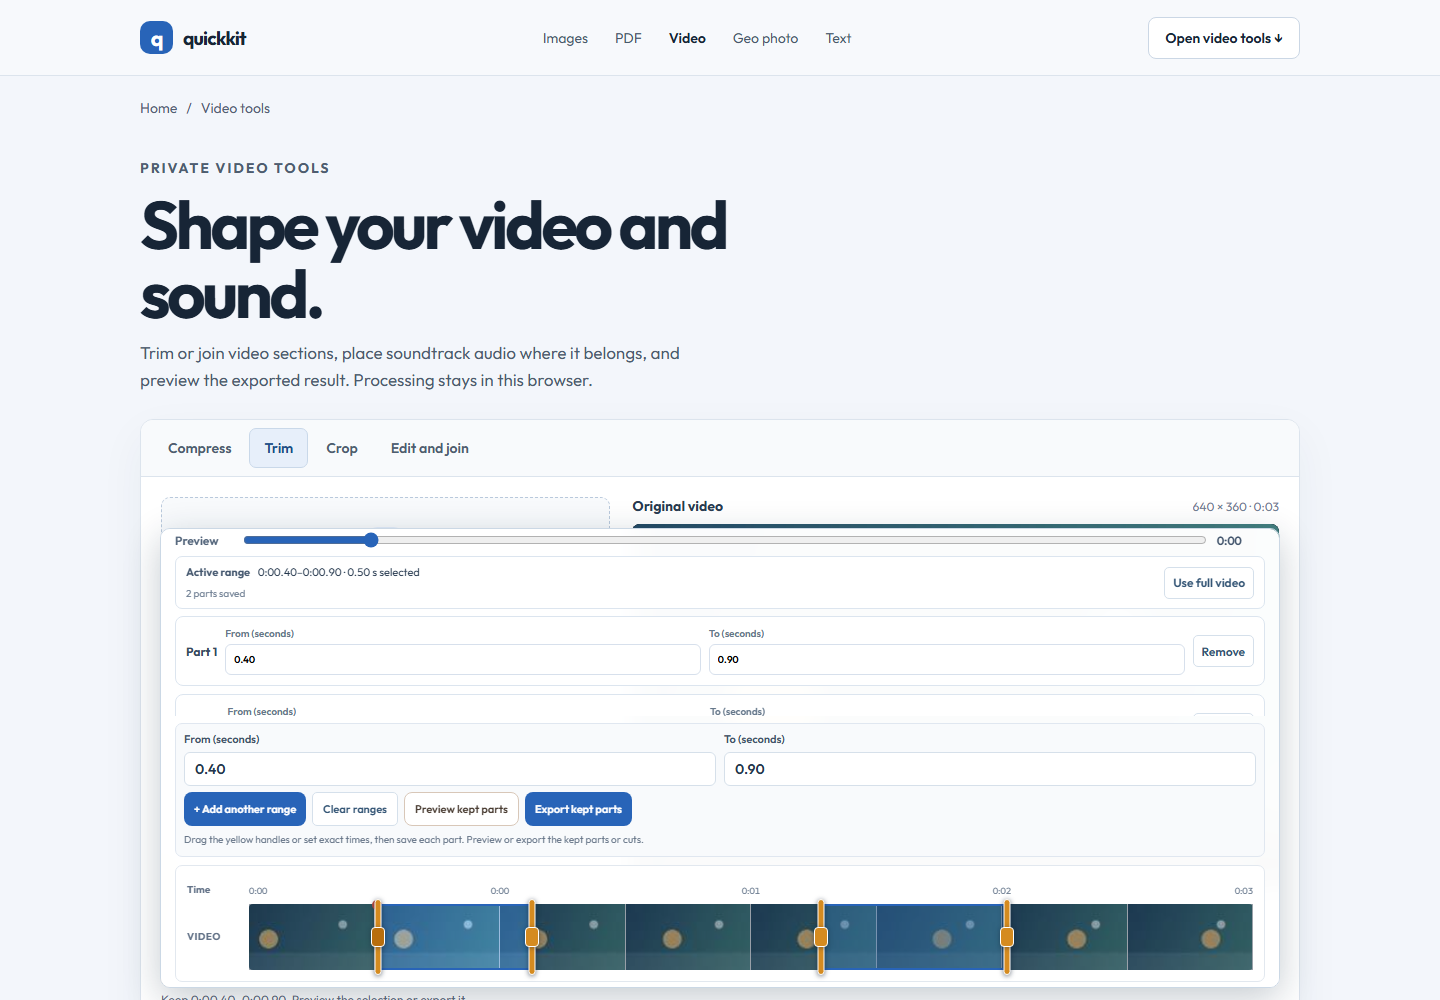
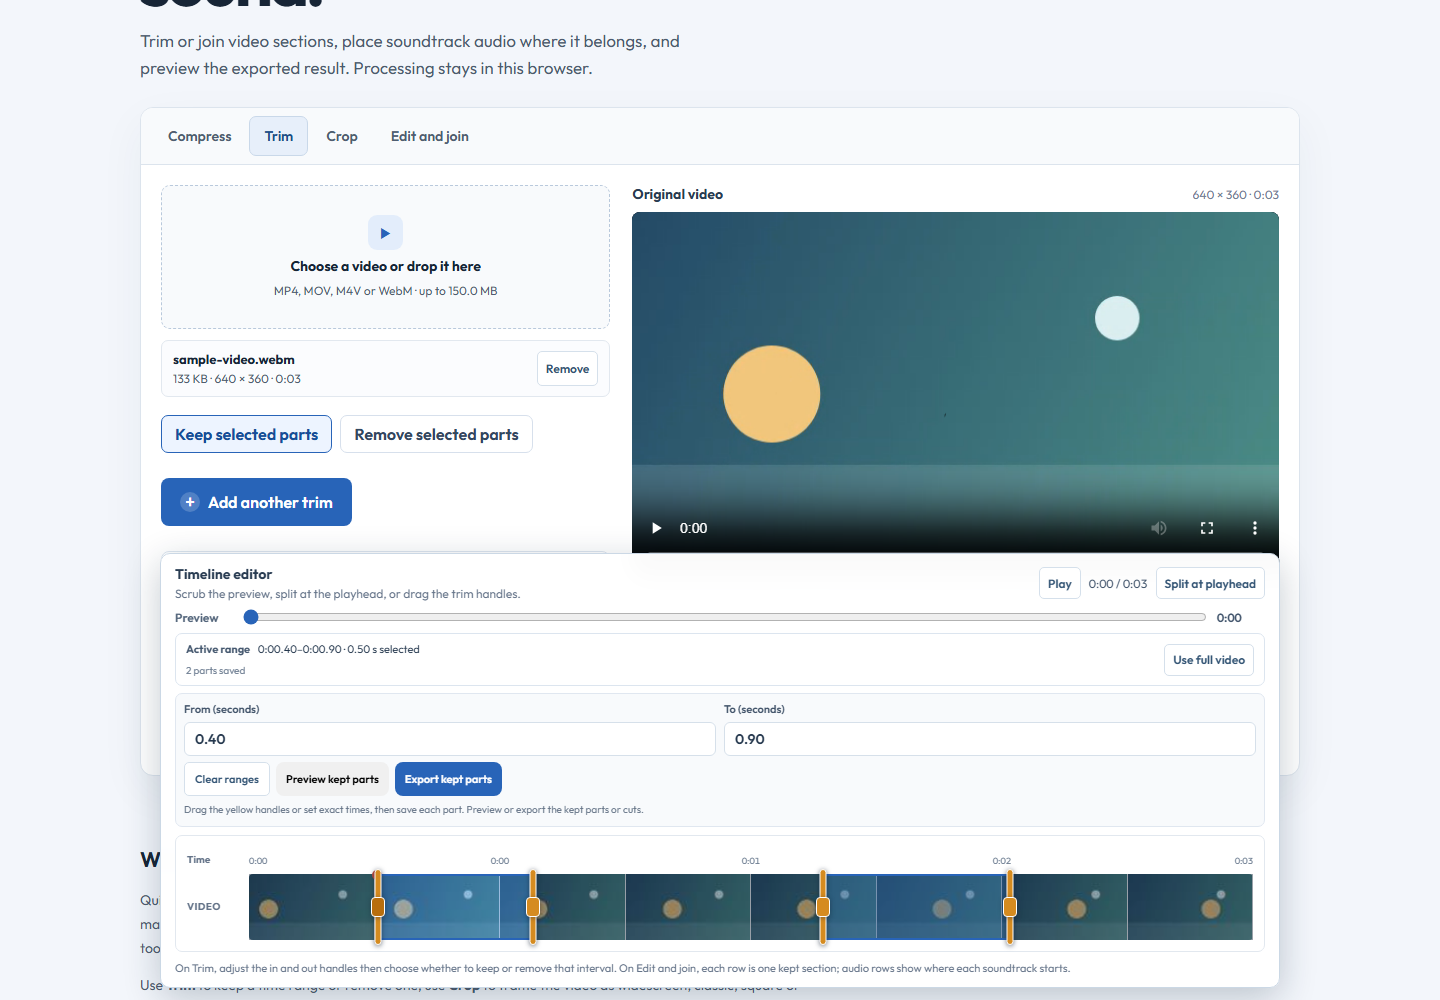
Simplify multi-range video trim controls

diff --git a/products/quickkit/video-tools.css b/products/quickkit/video-tools.css
@@ -1,7 +1,7 @@
 .video-page{padding-bottom:54px}.video-intro{max-width:850px}.video-intro h1{max-width:12ch}.video-workbench{overflow:hidden;border:1px solid var(--line);border-radius:13px;background:#fff;box-shadow:0 16px 46px #2238540d}.video-tabs{display:flex;gap:3px;padding:8px 12px;border-bottom:1px solid var(--line);background:#f8fafc}.video-tabs button{min-height:40px;padding:8px 14px;border:1px solid transparent;border-radius:7px;background:transparent;color:#4e5d70;font-size:14px;font-weight:600;cursor:pointer}.video-tabs button:hover{background:#eef3f8}.video-tabs button[aria-selected=true]{border-color:#c9d8e9;background:#e7effa;color:#1e4d88}.video-layout{display:grid;grid-template-columns:minmax(300px,.82fr) minmax(0,1.18fr);gap:22px;padding:20px}.video-settings{min-width:0}.video-dropzone{min-height:144px;display:flex;flex-direction:column;align-items:center;justify-content:center;gap:7px;padding:18px;border:1.5px dashed #b9c9dc;border-radius:9px;background:#f8fafc;text-align:center;cursor:pointer}.video-dropzone:hover,.video-dropzone.is-dragging{border-color:var(--blue);background:#f2f6fc}.video-dropzone input{position:absolute;width:1px;height:1px;opacity:0}.video-drop-icon{width:35px;height:35px;display:grid;place-items:center;border-radius:9px;background:#e3edfb;color:var(--blue);font-size:13px}.video-dropzone strong{font-size:14px}.video-dropzone>span:last-of-type{color:var(--muted);font-size:12px;line-height:1.5}.video-file-summary{display:grid;grid-template-columns:minmax(0,1fr) auto;gap:4px 10px;margin-top:11px;padding:10px 11px;border:1px solid #e2e8ef;border-radius:7px;background:#fbfcfe}.video-file-summary[hidden]{display:none}.video-file-summary strong{overflow:hidden;text-overflow:ellipsis;white-space:nowrap;font-size:13px}.video-file-summary span{grid-column:1;color:var(--muted);font-size:12px}.video-file-summary .video-text-button{grid-column:2;grid-row:1/3}.video-mode-panel{display:grid;gap:13px;padding-top:18px}.video-mode-panel[hidden]{display:none}.video-field{display:grid;gap:6px;color:#42546a;font-size:13px;font-weight:600}.video-field select,.video-field input[type=number]{width:100%;height:40px;padding:0 10px;border:1px solid #d6e0ea;border-radius:6px;background:#fff;color:#24374d;font-size:14px}.video-field input[type=range]{width:100%;accent-color:var(--blue)}.video-time-fields{display:grid;grid-template-columns:1fr 1fr;gap:10px}.video-scrub-label{grid-template-columns:1fr auto;align-items:center}.video-scrub-label input{grid-column:1/-1}.video-scrub-label output,.video-progress-heading output{font-variant-numeric:tabular-nums;color:#526174}.video-help{margin:0;color:#647386;font-size:12px;line-height:1.55}.video-run{width:100%;margin-top:1px}.video-run:disabled{opacity:.5;cursor:not-allowed}.video-list-heading{display:flex;align-items:center;justify-content:space-between;gap:10px}.video-list-heading>div{display:grid;gap:3px}.video-list-heading strong{color:#293c52;font-size:14px}.video-list-heading span{color:#657489;font-size:12px}.video-text-button{min-height:32px;padding:5px 8px;border:1px solid #d5e0eb;border-radius:5px;background:#fff;color:#345575;font-size:12px;font-weight:600;cursor:pointer}.video-text-button:hover{background:#f2f6fb;border-color:#b6c9dc}.video-text-button:disabled{opacity:.5;cursor:not-allowed}.video-segments{display:grid;gap:8px;max-height:285px;overflow:auto;margin:0;padding:0;list-style:none}.video-segment{display:grid;grid-template-columns:minmax(0,1fr) auto;gap:7px 8px;padding:9px;border:1px solid #e1e8ef;border-radius:7px;background:#fbfcfe}.video-segment.is-dragging{opacity:.5}.video-segment-header{grid-column:1/-1;display:flex;align-items:center;gap:7px;min-width:0}.video-segment-index{width:23px;height:23px;display:grid;place-items:center;flex:none;border-radius:5px;background:#e5eefb;color:#315f9a;font-size:11px;font-weight:700}.video-segment-name{min-width:0;overflow:hidden;text-overflow:ellipsis;white-space:nowrap;color:#32465d;font-size:12px;font-weight:600}.video-segment-actions{display:flex;gap:3px;margin-left:auto}.video-segment-actions button{width:26px;height:25px;border:1px solid #dce4ed;border-radius:4px;background:#fff;color:#516275;font-size:12px;cursor:pointer}.video-segment-actions button:disabled{opacity:.4;cursor:not-allowed}.video-segment label{display:grid;gap:4px;color:#637388;font-size:11px;font-weight:600}.video-segment input{width:100%;height:31px;padding:0 7px;border:1px solid #d6e0ea;border-radius:5px;background:#fff;color:#24374d;font-size:12px}.video-progress{display:grid;gap:7px;margin-top:17px;padding:11px;border:1px solid #dce5ef;border-radius:7px;background:#f8fafc}.video-progress[hidden]{display:none}.video-progress-heading{display:flex;align-items:center;justify-content:space-between;gap:8px;font-size:12px;color:#3c4f65}.video-progress progress{width:100%;height:9px;accent-color:var(--blue)}.video-progress .video-text-button{justify-self:start}.video-status{min-height:18px;margin:11px 0 0;color:#5c6b7d;font-size:12px;line-height:1.5}.video-status.is-error{color:#a14432}.video-private-note{margin:8px 0 0;color:#5b6b7e;font-size:12px}.video-private-note span{color:#3c8050}.video-preview-panel{min-width:0}.video-preview-heading{display:flex;align-items:baseline;justify-content:space-between;gap:10px;margin:0 0 9px}.video-preview-heading strong{color:#293c52;font-size:14px}.video-preview-heading span{overflow:hidden;text-overflow:ellipsis;white-space:nowrap;color:#718094;font-size:12px}.video-frame{min-height:280px;display:grid;place-items:center;overflow:hidden;border-radius:8px;background:#192534}.video-frame video{display:block;width:100%;max-height:480px;background:#0d1520}.video-frame video[hidden]{display:none}.video-empty{display:grid;justify-items:center;gap:8px;padding:24px;color:#d7e0ea;text-align:center}.video-empty>span{width:38px;height:38px;display:grid;place-items:center;border:1px solid #596b80;border-radius:10px;font-size:13px}.video-empty strong{font-size:14px}.video-empty small{max-width:250px;color:#acbac9;font-size:12px;line-height:1.5}.video-empty[hidden]{display:none}.video-result{display:flex;align-items:center;justify-content:space-between;gap:15px;margin-top:12px;padding:11px;border:1px solid #cddfce;border-radius:7px;background:#f2f8f1}.video-result[hidden]{display:none}.video-result>div{display:grid;gap:4px}.video-result strong{color:#345c3e;font-size:13px}.video-result span{color:#536b59;font-size:12px}.video-result .button{min-height:38px;padding:8px 12px;font-size:12px;white-space:nowrap}.video-support-note{margin:10px 0 0;color:#66768a;font-size:12px;line-height:1.55}.video-explainer{padding-top:30px}.video-explainer p{max-width:72ch}@media(max-width:850px){.video-layout{grid-template-columns:1fr}.video-preview-panel{order:-1}.video-frame{min-height:240px}.video-frame video{max-height:420px}}@media(max-width:560px){.video-page{padding-bottom:40px}.video-intro{padding-top:28px}.video-intro h1{font-size:clamp(2.5rem,10vw,3.5rem)}.video-workbench{border-radius:9px}.video-tabs{padding:6px;gap:2px}.video-tabs button{flex:1;min-width:0;padding:7px 5px;font-size:12px}.video-layout{gap:14px;padding:11px}.video-preview-heading{align-items:flex-start;flex-direction:column;gap:3px}.video-frame{min-height:210px}.video-frame video{max-height:360px}.video-result{align-items:flex-start;flex-direction:column}.video-result .button{width:100%}.video-list-heading{align-items:flex-start}.video-segments{max-height:245px}.video-time-fields{gap:7px}}
 
 .video-timeline{display:grid;gap:8px;margin:5px 0;padding:10px;border:1px solid #e2e8ef;border-radius:7px;background:#fbfcfe}.video-timeline[hidden]{display:none}.timeline-lane{display:grid;grid-template-columns:54px minmax(0,1fr);align-items:center;gap:8px}.timeline-lane>span{color:#657489;font-size:10px;font-weight:700;text-transform:uppercase;letter-spacing:.04em}.timeline-rail{position:relative;min-height:22px;overflow:hidden;border-radius:4px;background:repeating-linear-gradient(90deg,#f1f4f8 0,#f1f4f8 calc(10% - 1px),#dce4ed calc(10% - 1px),#dce4ed 10%)}.timeline-block{position:absolute;top:2px;bottom:2px;min-width:2px;overflow:hidden;padding:2px 4px;border-radius:3px;background:#3768a9;color:#fff;font-size:9px;line-height:14px;text-overflow:ellipsis;white-space:nowrap}.timeline-block.audio{background:#5b8c68}.soundtrack-editor{display:grid;gap:10px;margin-top:12px;padding:12px;border:1px solid #dfe7ee;border-radius:8px;background:#f8fafc}.soundtrack-editor>.video-list-heading{margin-bottom:1px}.soundtrack-dropzone{min-height:72px;display:flex;flex-direction:column;align-items:center;justify-content:center;gap:4px;padding:10px;border:1px dashed #afc1d5;border-radius:7px;background:#fff;text-align:center;cursor:pointer}.soundtrack-dropzone:hover,.soundtrack-dropzone.is-dragging{border-color:var(--blue);background:#f2f6fc}.soundtrack-dropzone strong{color:#354a61;font-size:12px}.soundtrack-dropzone span{color:#657489;font-size:10px}.soundtrack-dropzone input{position:absolute;width:1px;height:1px;opacity:0}.soundtrack-original{margin:0;padding:8px;border:1px solid #e1e8ef;border-radius:6px;background:#fff}.soundtrack-original-volume{grid-template-columns:1fr auto;align-items:center}.soundtrack-original-volume input{grid-column:1/-1}.soundtrack-original-volume output{font-size:12px;color:#526174;font-variant-numeric:tabular-nums}.soundtrack-list{display:grid;gap:8px;margin:0;padding:0;list-style:none}.soundtrack-track{display:grid;grid-template-columns:1fr 1fr;gap:8px;padding:9px;border:1px solid #dce5ee;border-radius:7px;background:#fff}.soundtrack-track-header{grid-column:1/-1;display:flex;align-items:center;gap:8px;min-width:0}.soundtrack-track-header strong{min-width:0;overflow:hidden;text-overflow:ellipsis;white-space:nowrap;color:#32465d;font-size:12px}.soundtrack-track-header button{margin-left:auto;flex:none}.soundtrack-track label{display:grid;gap:4px;color:#637388;font-size:10px;font-weight:600}.soundtrack-track input[type=number]{width:100%;height:30px;padding:0 7px;border:1px solid #d6e0ea;border-radius:5px;background:#fff;color:#24374d;font-size:12px}.soundtrack-track .soundtrack-volume{grid-column:1/-1;grid-template-columns:1fr auto;align-items:center}.soundtrack-track .soundtrack-volume input{grid-column:1/-1;width:100%;accent-color:var(--blue)}.soundtrack-track .soundtrack-volume output{font-size:11px;color:#526174;font-variant-numeric:tabular-nums}.soundtrack-empty{margin:0;padding:8px;border:1px dashed #d7e0e9;border-radius:6px;color:#718094;font-size:11px;text-align:center}.soundtrack-error{margin:0;color:#a14432;font-size:11px}.video-settings .soundtrack-editor input:focus-visible,.video-settings .video-timeline:focus-visible{outline:3px solid #e68a4b;outline-offset:2px}
-.video-cut-box{display:grid;gap:7px;padding:11px;border-left:3px solid #d08a55;border-radius:5px;background:#fbf6f1}.video-cut-box>strong{color:#493c32;font-size:13px}.video-cut-box .video-run{margin-top:2px}.video-run.button-secondary{border:1px solid #d8c7b8;background:#fff;color:#493c32}.video-run.button-secondary:hover{background:#f5ebe1}.video-crop-controls{display:grid;gap:12px}.video-crop-controls output{justify-self:end;color:#526174;font-variant-numeric:tabular-nums}.video-frame{transition:aspect-ratio .2s ease}.video-frame video{transition:object-position .18s ease,object-fit .18s ease}
+.video-crop-controls{display:grid;gap:12px}.video-crop-controls output{justify-self:end;color:#526174;font-variant-numeric:tabular-nums}.video-frame{transition:aspect-ratio .2s ease}.video-frame video{transition:object-position .18s ease,object-fit .18s ease}
 @media(max-width:560px){.soundtrack-editor{padding:9px}.soundtrack-track{gap:7px;padding:8px}.timeline-lane{grid-template-columns:44px minmax(0,1fr);gap:5px}.timeline-block{font-size:8px;padding-inline:2px}}
 .video-editor-dock{display:grid;gap:13px;margin:0 20px 20px;padding:15px;border:1px solid #dce5ef;border-radius:9px;background:#f8fafc}.video-editor-dock[hidden]{display:none}.video-editor-dock-heading{display:flex;align-items:center;justify-content:space-between;gap:16px}.video-editor-dock-heading>div:first-child{display:grid;gap:3px}.video-editor-dock-heading strong{color:#293c52;font-size:14px}.video-editor-dock-heading span{color:#657489;font-size:12px}.video-transport{display:flex;align-items:center;gap:8px}.video-transport output,.video-editor-scrub output,.video-trim-ranges output{color:#43566d;font-size:12px;font-variant-numeric:tabular-nums;white-space:nowrap}.video-editor-scrub{display:grid;grid-template-columns:58px minmax(0,1fr) 48px;align-items:center;gap:10px;color:#52647a;font-size:12px;font-weight:600}.video-editor-scrub input,.video-trim-ranges input{width:100%;margin:0;accent-color:#2864b8}.video-trim-ranges{display:grid;grid-template-columns:1fr 1fr;gap:18px;padding:12px;border:1px solid #dce5ef;border-radius:7px;background:#fff}.video-trim-ranges[hidden]{display:none}.video-trim-ranges label{display:grid;grid-template-columns:1fr auto;align-items:center;gap:6px;color:#45586f;font-size:12px;font-weight:600}.video-trim-ranges input{grid-column:1/-1}.video-editor-dock .video-timeline{margin:0;padding:11px;background:#fff}.video-editor-dock .timeline-lane{grid-template-columns:64px minmax(0,1fr)}.video-editor-dock .timeline-rail{min-height:34px;background:repeating-linear-gradient(90deg,#eef2f6 0,#eef2f6 calc(5% - 1px),#dbe3ec calc(5% - 1px),#dbe3ec 5%)}.video-editor-dock .timeline-block{top:3px;bottom:3px;display:flex;align-items:center;padding:0 8px;background:linear-gradient(120deg,#315f9e,#4f7eb8);font-size:10px}.video-editor-dock .timeline-block.audio{background:linear-gradient(120deg,#50795a,#6b9a72)}.timeline-playhead{position:absolute;z-index:2;top:0;bottom:0;left:0;width:2px;background:#c44c3c;pointer-events:none;box-shadow:0 0 0 1px #fff8}.timeline-playhead:before{position:absolute;top:-4px;left:-4px;width:10px;height:10px;border-radius:50%;background:#c44c3c;content:""}.timeline-trim-selection{position:absolute;z-index:1;top:0;bottom:0;background:#ffec8590;border-left:2px solid #c48a2a;border-right:2px solid #c48a2a;pointer-events:none}.video-timeline-note{margin:0;color:#657489;font-size:11px;line-height:1.5}
 @media(max-width:850px){.video-editor-dock{margin:0 11px 14px;padding:11px}}
@@ -42,6 +42,9 @@
 .video-trim-action{display:flex;flex-wrap:wrap;gap:8px;margin-bottom:12px}
 .video-trim-action button{min-height:38px;padding:8px 13px;border:1px solid #d7e0ec;border-radius:7px;background:#fff;color:#33475f;font-weight:650;cursor:pointer}
 .video-trim-action button[aria-pressed=true]{border-color:#2864b8;background:#edf4ff;color:#174d98}
+.video-trim-add-row{display:flex;align-items:center;margin:0 0 12px}
+.video-trim-add-button{min-height:40px;padding:9px 14px}
+.video-trim-add-button>span{display:inline-grid;width:20px;height:20px;place-items:center;margin-right:5px;border-radius:50%;background:#ffffff30;font-size:18px;line-height:1}
 .video-trim-section-actions{display:flex;flex-wrap:wrap;gap:12px;align-items:center;margin:8px 0}
 .video-trim-segments{display:grid;gap:8px;margin:10px 0;padding:0;list-style:none}
 .video-trim-range-row{display:grid;grid-template-columns:auto minmax(90px,1fr) minmax(90px,1fr) auto;align-items:center;gap:8px;padding:10px;border:1px solid #dce5ef;border-radius:8px;background:#fff}

diff --git a/products/quickkit/video-tools.js b/products/quickkit/video-tools.js
@@ -124,7 +124,6 @@ function updateActions() {
   const hasVideo = selected.length > 0;
   $('#video-run-compress').disabled = !hasVideo || busy();
   $('#video-run-trim').disabled = !hasVideo || busy();
-  $('#video-run-remove-range').disabled = !hasVideo || busy();
   $('#video-add-trim-range').disabled = !hasVideo || busy();
   $('#video-clear-trim-ranges').disabled = !trimRanges.length || busy();
   $('#video-preview-trim-ranges').disabled = !trimRanges.length || busy();
@@ -370,7 +369,7 @@ function renderTrimRanges() {
     row.append(title, startLabel, endLabel, remove); list.append(row);
   });
   const add = $('#video-add-trim-range');
-  if (add) add.innerHTML = `<span aria-hidden="true">+</span> ${trimDraftActive ? (trimRanges.length ? 'Save this part' : 'Save first part') : 'Add another range'}`;
+  if (add) add.innerHTML = `<span aria-hidden="true">+</span> ${trimDraftActive ? (trimRanges.length ? 'Save this trim' : 'Save first trim') : 'Add another trim'}`;
   const savedCount = $('#video-trim-saved-count');
   if (savedCount) savedCount.textContent = trimRanges.length ? `${trimRanges.length} ${trimRanges.length === 1 ? 'part' : 'parts'} saved` : 'No parts saved yet';
   const previewButton = $('#video-preview-trim-ranges');
@@ -1008,26 +1007,6 @@ function handleCropPointerUp(event) {
   if (event.currentTarget.hasPointerCapture?.(event.pointerId)) event.currentTarget.releasePointerCapture(event.pointerId);
 }
 
-function removeSelectedRange() {
-  const item = selected[0];
-  if (!item) return;
-  const start = Number($('#video-trim-start').value);
-  const end = Number($('#video-trim-end').value);
-  if (!Number.isFinite(start) || !Number.isFinite(end) || start < 0 || end > item.duration || end - start < 0.15) {
-    setStatus('Enter a section of at least 0.15 seconds to remove, inside the video duration.', true); return;
-  }
-  const kept = [];
-  if (start >= 0.15) kept.push({ id: `segment-${++segmentCounter}`, itemId: item.id, start: 0, end: start });
-  if (item.duration - end >= 0.15) kept.push({ id: `segment-${++segmentCounter}`, itemId: item.id, start: end, end: item.duration });
-  if (!kept.length) { setStatus('That range covers the whole video. Leave at least 0.15 seconds to keep.', true); return; }
-  segments = kept;
-  queuedJoinTask = 'cut';
-  updateMode('join');
-  renderSegments();
-  setStatus(`Ready to remove ${formatDuration(start)}–${formatDuration(end)}. Check the kept sections, then export.`);
-  $('#video-run-join').focus();
-}
-
 async function runConversion(task) {
   const item = selected[0];
   if (!item) return;
@@ -1239,7 +1218,6 @@ fileInput.addEventListener('change', (event) => {
 $('#video-clear').addEventListener('click', clearFiles);
 $('#video-run-compress').addEventListener('click', () => runConversion('compress'));
 $('#video-run-trim').addEventListener('click', () => runConversion('trim'));
-$('#video-run-remove-range').addEventListener('click', removeSelectedRange);
 $('#video-run-crop').addEventListener('click', () => runConversion('crop'));
 $('#video-run-join').addEventListener('click', () => runJoin());
 $('#video-playback-toggle').addEventListener('click', async () => {
@@ -1292,8 +1270,8 @@ for (const [id, intent] of [['video-trim-keep', 'keep'], ['video-trim-remove', '
     $('#video-trim-keep').setAttribute('aria-pressed', String(intent === 'keep'));
     $('#video-trim-remove').setAttribute('aria-pressed', String(intent === 'remove'));
     $('#video-trim-intent-help').textContent = intent === 'keep'
-      ? 'Saved ranges are joined in order. Switch to “Remove selected parts” to cut those ranges from the original video.'
-      : 'Saved ranges will be cut out. The remaining parts before, between and after them are joined in order.';
+      ? 'Saved parts are joined in order.'
+      : 'Saved parts are cut out; the remaining video is joined.';
     renderTrimRanges();
     setStatus(intent === 'keep' ? 'Saved ranges are the parts that will remain in the export.' : 'Saved ranges are the parts that will be cut out of the export.');
   });

diff --git a/products/quickkit/video-tools.html b/products/quickkit/video-tools.html
@@ -84,12 +84,11 @@
               <button type="button" id="video-trim-keep" aria-pressed="true">Keep selected parts</button>
               <button type="button" id="video-trim-remove" aria-pressed="false">Remove selected parts</button>
             </div>
-              <p class="video-help" id="video-trim-intent-help">Saved ranges are joined in order. Switch to “Remove selected parts” to cut those ranges from the original video.</p>
-            <div class="video-cut-box">
-              <strong>Remove one section</strong>
-              <p class="video-help">For several cuts, choose Remove selected parts, save each unwanted range, then preview the remaining video.</p>
-              <button type="button" class="button button-secondary video-run" id="video-run-remove-range" disabled>Remove this range</button>
+            <div class="video-trim-add-row">
+              <button type="button" class="button button-primary video-trim-add-button" id="video-add-trim-range" disabled><span aria-hidden="true">+</span> Save first trim</button>
             </div>
+            <ol class="video-trim-segments" id="video-trim-segments" aria-label="Selected video ranges" hidden></ol>
+            <p class="video-help" id="video-trim-intent-help">Save each part with +. Choose Keep selected parts to join saved ranges, or Remove selected parts to cut them out.</p>
           </div>
 
           <div class="video-mode-panel" id="video-panel-crop" role="tabpanel" aria-labelledby="video-tab-crop" hidden>
@@ -174,14 +173,12 @@
               <div><strong>Active range</strong><output id="video-trim-range-summary">0:00–0:00 · 0:00 selected</output><span id="video-trim-saved-count">No parts saved</span></div>
               <button type="button" class="video-text-button" id="video-reset-trim" disabled>Use full video</button>
             </div>
-            <ol class="video-trim-segments" id="video-trim-segments" aria-label="Selected video ranges" hidden></ol>
             <div class="video-trim-workspace-controls">
               <div class="video-time-fields">
                 <label class="video-field">From (seconds)<input id="video-trim-start" type="number" min="0" step="0.01" value="0" inputmode="decimal"></label>
                 <label class="video-field">To (seconds)<input id="video-trim-end" type="number" min="0" step="0.01" value="0" inputmode="decimal"></label>
               </div>
               <div class="video-trim-section-actions">
-                <button type="button" class="button button-primary" id="video-add-trim-range" disabled><span aria-hidden="true">+</span> Save first part</button>
                 <button type="button" class="video-text-button" id="video-clear-trim-ranges" disabled>Clear ranges</button>
                 <button type="button" class="button button-secondary video-run" id="video-preview-trim-ranges" disabled hidden>Preview selected parts</button>
                 <button type="button" class="button button-primary video-run" id="video-run-trim" disabled>Export trimmed clip</button>

diff --git a/VIDEO_TOOLS_PLAN.md b/VIDEO_TOOLS_PLAN.md
@@ -79,7 +79,8 @@ The current interface is `products/quickkit/video-tools.html`. It keeps source f
 - [x] Preview and download the assembled output using the existing local join/export engine; validate playable output duration for both keep and remove behavior.
 - [x] Reject overlapping selections with an understandable message; keep exact time fields and timeline selections in sync.
 - [x] Check the saved-range controls at 390px with no horizontal page overflow.
-- [x] Put saved ranges, exact time fields, the “+ Save/Add another part” action, preview and export together in the visible Trim dock so the fixed timeline no longer hides them.
+- [x] Put the visible “+ Save/Add another trim” action beside Keep/Remove in the Trim panel. Keep exact time fields, saved parts, clear, preview and export together in the timeline dock.
+- [x] Remove the separate one-off cut control so keeping or removing saved ranges stays in one simple flow.
 - [x] Keep the timeline dock out of Compress and Crop; show it only for Trim and Edit and join.
 - [x] Add a crop box drawn over the actual video frame, movable within the frame and resizable from four corners; implement zoom from 50% to 300% and keep preview coordinates stable while selecting.
 - [x] Verify the free-crop export uses the selected frame region and exact output dimensions, not a visual-only overlay.

diff --git a/BROWSER_QA_CHECKLIST.md b/BROWSER_QA_CHECKLIST.md
@@ -255,7 +255,8 @@ Owner-supplied files were exercised in a local production build so their content
 
 ## Trim and crop usability correction — 2026-11-02
 
-- [x] Fixed the covered Trim controls by placing exact time fields, saved parts, clear, preview and export in the dock. The visible plus action starts another adjustable range; five separate ranges save and show in the editable list.
+- [x] Put the visible plus action beside Keep/Remove in the Trim panel; keep exact time fields, saved parts, clear, preview and export in the dock. Five separate ranges save and show in the editable list.
+- [x] Remove the duplicate one-off cut box; Remove selected parts now cuts every saved range through the same Trim flow.
 - [x] Separate task UI: timeline dock is hidden in Compress and Crop, shown in Trim and Edit and join.
 - [x] Crop can draw, move and resize a freeform selection directly on the original frame. Zoom range is 50–300%; browser QA checks both directions, exact crop geometry and exported pixels/dimensions.
 - [x] Local production Chromium: full video suite **45/45**, focused multi-range suite **11/11**.
